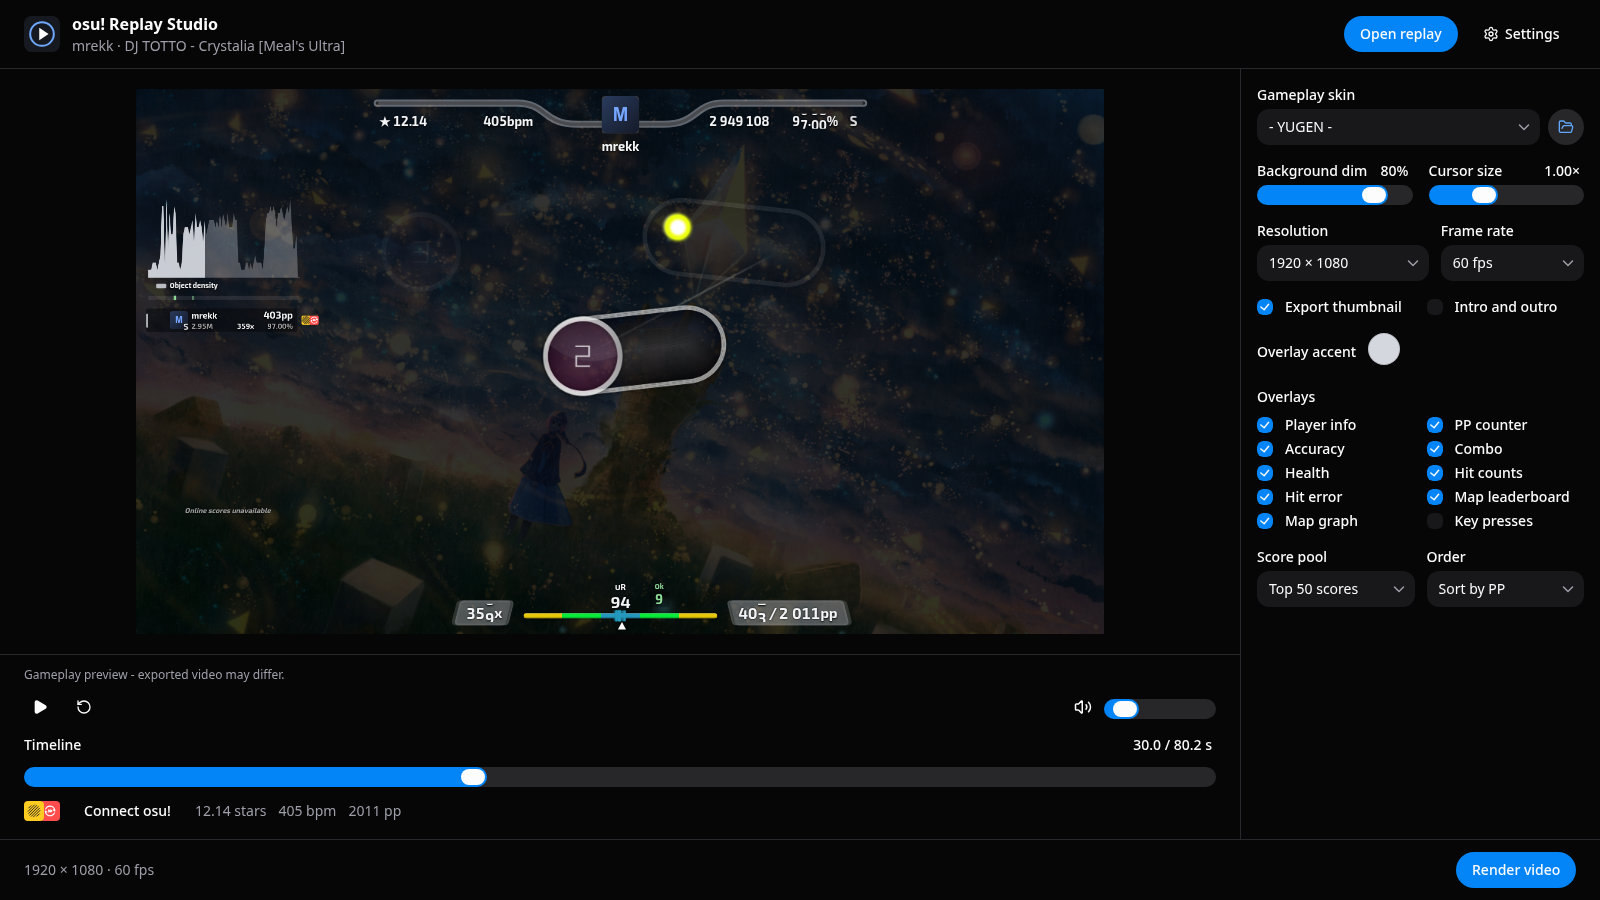
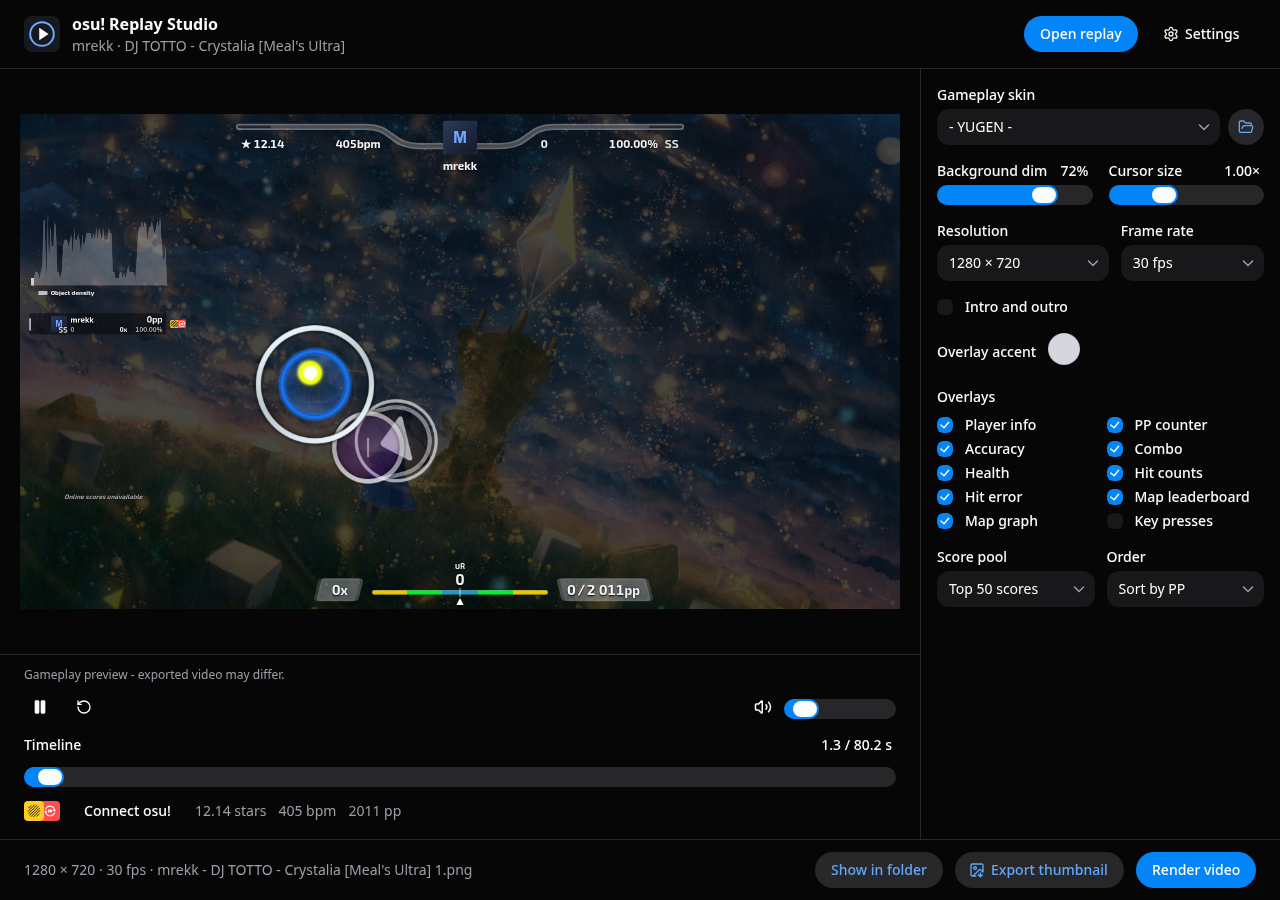
docs(studio): show the separate thumbnail export action

diff --git a/README.md b/README.md
@@ -22,7 +22,7 @@ An OpenGL 3.3 graphics driver is required.
 5. Select **Render video**.
 
 Videos go to your Videos folder by default. Change the folder in **Settings**.
-Enable **Export thumbnail** to save a PNG beside the video.
+Select **Export thumbnail** to save a PNG to your output folder. This does not render a video.
 The outro includes short entrance sounds. Preview volume affects only the app. Export audio uses a fixed loudness target.
 Video defaults are 1920 × 1080 at 60 FPS. Existing files are kept. Space plays or pauses. Arrow keys seek five seconds. Ctrl+plus and Ctrl+minus change app scale. Ctrl+0 resets it.
 
